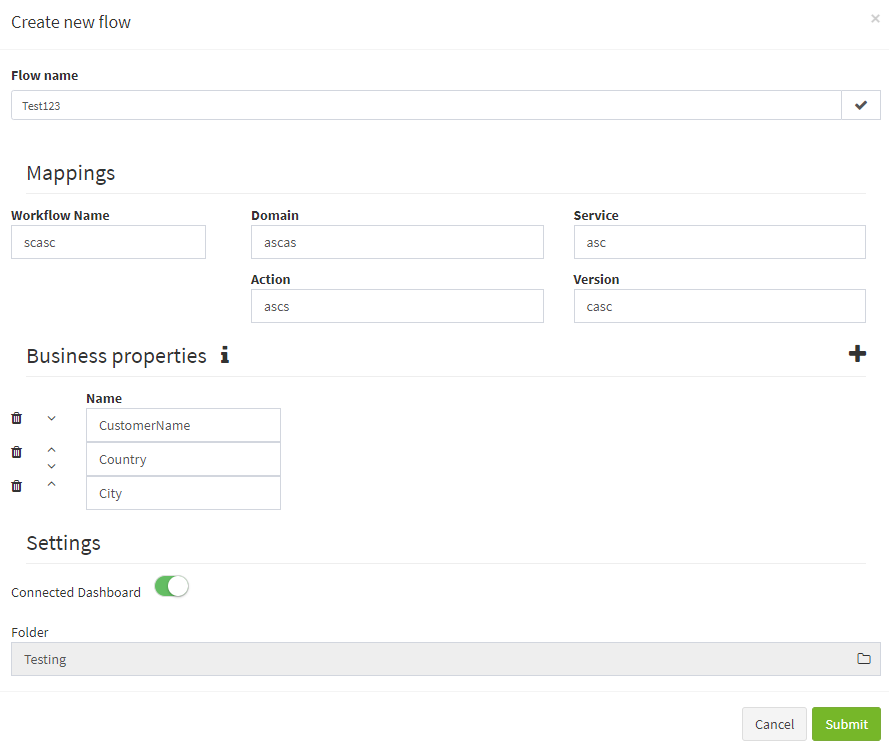
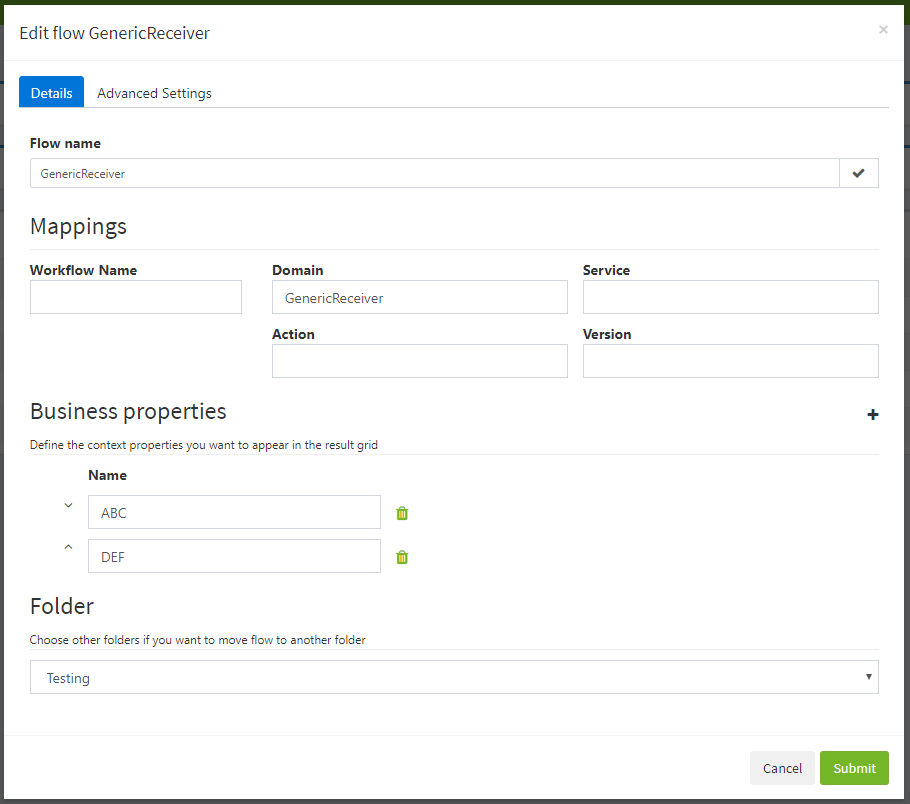
adr - move flow

diff --git a/dashboard/foldersflows.md b/dashboard/foldersflows.md
@@ -94,3 +94,13 @@ Depending on its rights, a user can delete the following:
 * Folders
 * Subfolders
 * Flows
+
+### Move Flow
+
+Depending on its rights, a user can move the following:
+
+* Flows
+
+### Moving a Flow to another Folder
+
+If you need to move a flow from one folder to another one, you need to enter in the edit flow screen. At the bottom of tab 1 (Details), you have a drop down list of all the Folders and Sub Folders that you have rights to access. You just need to choose a folder which you want to move the current flow to and just click submit.
